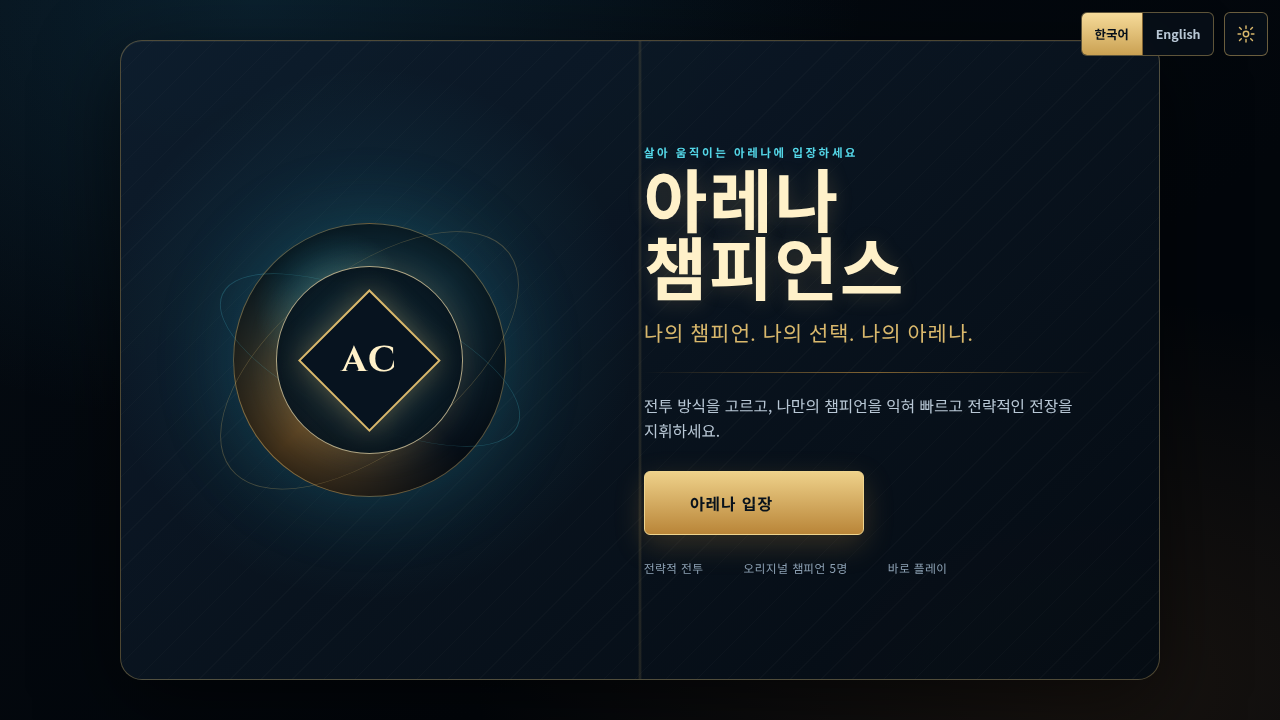
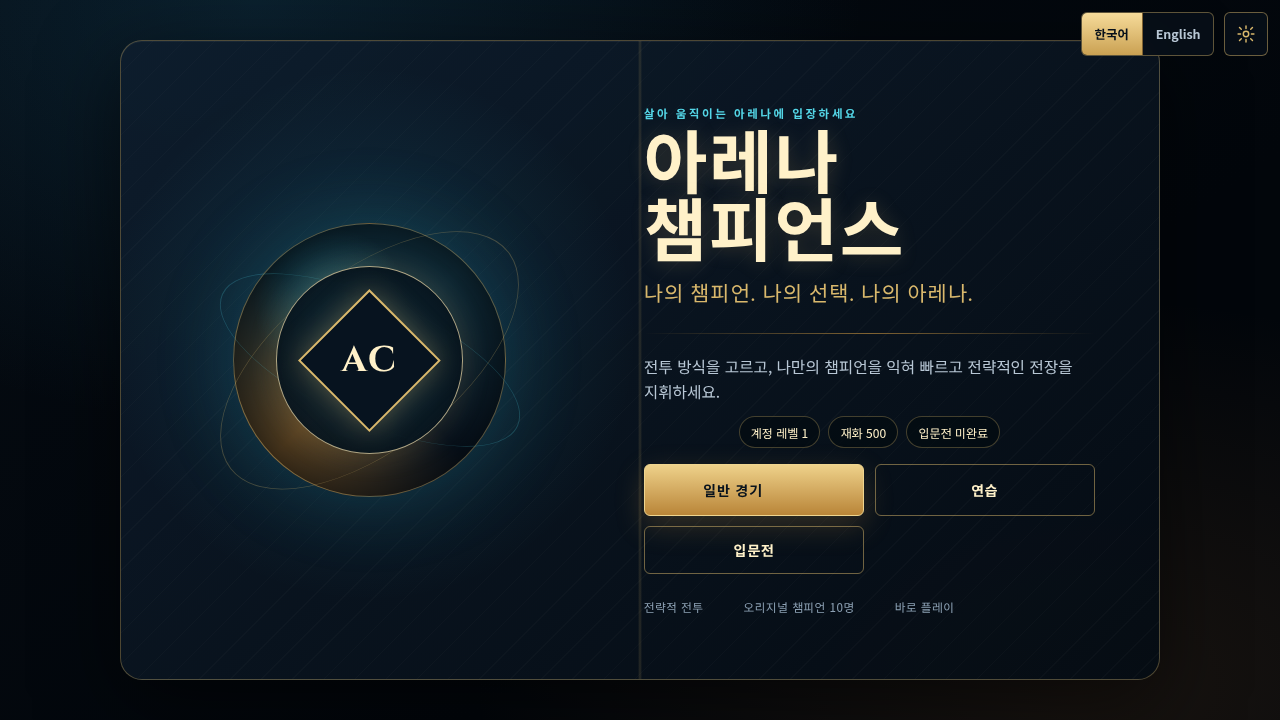
chore(champs): refresh landing thumbnail and record live QA in handoff

diff --git a/packages/champs/handoff.md b/packages/champs/handoff.md
@@ -98,15 +98,63 @@ point-count flourish from the accent tint); `npm run build` succeeds and champs 
 `phaser` vendor chunk (~1.48MB) with the entry chunk down to ~144kB and no size advisory;
 `npm run docs:check` reports the generated README tables up to date; `git diff --check` clean.
 
+## Thumbnail refresh (resolved)
+
+The landing-page thumbnail `packages/champs/thumb.png` has been regenerated so it reflects the
+current battle art (per-champion silhouettes + signature VFX). Procedure, run from the repo root:
+
+```bash
+npm run build                 # build every game + landing page
+# assemble the game dists into _site as the deploy workflow does:
+for d in packages/*/dist; do p=$(basename "$(dirname "$d")"); case "$p" in _*) continue;; esac; rm -rf "_site/$p"; cp -r "$d" "_site/$p"; done
+CHROMIUM_PATH=/usr/local/bin/chrome npm run thumbs -- --only champs
+```
+
+Notes for the next maintainer:
+
+- `npm run thumbs` needs Playwright and a Chromium binary. In this environment the browser lived
+  at `/usr/local/bin/chrome` (a Playwright-managed build under `/opt/playwright`), so the capture
+  script was pointed at it via `CHROMIUM_PATH`; its default is `/opt/pw-browsers/chromium`.
+  Playwright itself was installed transiently (`npm i -D playwright`) to drive that browser and
+  then reverted so no `package.json` / `package-lock.json` churn is committed.
+- The capture serves the assembled `_site` and shoots the game's `<canvas>` cropped to 16:9
+  (1280x720). Arena Champions letterboxes its title screen, and the tool captures that title view
+  (ko-KR locale), so the new card shows the refreshed title-screen composition. The commit
+  contains only `packages/champs/thumb.png`; other games' thumbnails were left untouched.
+
+## Live browser QA (performed)
+
+A headless-Chromium QA pass was run against the production build (`_site/champs/`) covering the
+handoff's "Verification expectations". Result: **0 console errors and 0 page errors** across all
+flows. What was exercised:
+
+- **Korean (ko-KR):** title screen renders ("아레나 챔피언스"), Standard Match → Three-Lane
+  Conquest → champion select → battle. The Conquest battle boots and renders correctly: two
+  distinct champion silhouettes (애쉬본 vs 쏜와든), turret/inhibitor counts (포탑 11/11, 억제기
+  3/3), neutral-objective timers (드래곤 / 바위 파수꾼 / 공허의 폭군), minimap, Q/W/E/R ability
+  bar, HP/resource/XP bars, shop (상점 B), and surrender (항복).
+- **English (en-US):** language toggle switches `document.documentElement.lang` to `en`;
+  Learning Match → Midline Skirmish → champion select → battle boots (canvas present).
+- **Team composition / de-mirror:** the opponent picker excludes the player's own pick by
+  construction and Randomize reselects a valid non-self opponent; same-pick de-mirror and the
+  disjoint/no-mirror invariants remain covered by the seeded-composition unit tests.
+- **Unlocks:** a fresh profile shows 7 locked champions with enabled unlock buttons (default
+  500 currency vs 250 unlock cost).
+- **Continue:** starting a match persists `lastSetup` to `localStorage["champs:profile"]`; after
+  a reload the "Continue Last Setup" button appears and re-enters battle.
+- **Settings/diagnostics:** the settings panel opens from the gear control.
+- **Responsive:** mobile portrait (390x844) and mobile landscape (844x390) both render the
+  title screen without layout breakage; desktop (1280x800) verified throughout.
+
+The QA driver and its screenshots live under the (gitignored) task workspace at
+`.agents/tasks/task-champs-followups/` (`qa-champs.mjs`, `qa-shots/`) and are not committed.
+
 ## Remaining non-blocking follow-ups
 
 - VFX signature depth is intentionally scoped to accent tint plus the cast-flare flourish to
   keep the `vfxArt(kind, color)` cache key and asset budget stable; deeper per-champion VFX
   shapes (bespoke projectile/beam/impact silhouettes) remain an option if the texture budget
   allows.
-- Champion battle visuals changed materially, so the landing-page thumbnail may be stale. A
-  maintainer should re-run `npm run thumbs` (needs Playwright) to refresh `champs/thumb.png`;
-  thumbnail churn is intentionally not committed as part of this change.
 
 Resolved from the v1 semantic review: the cast-flare signature flourish is now
 regression-protected by a test that isolates the color-seeded star point-count from the
